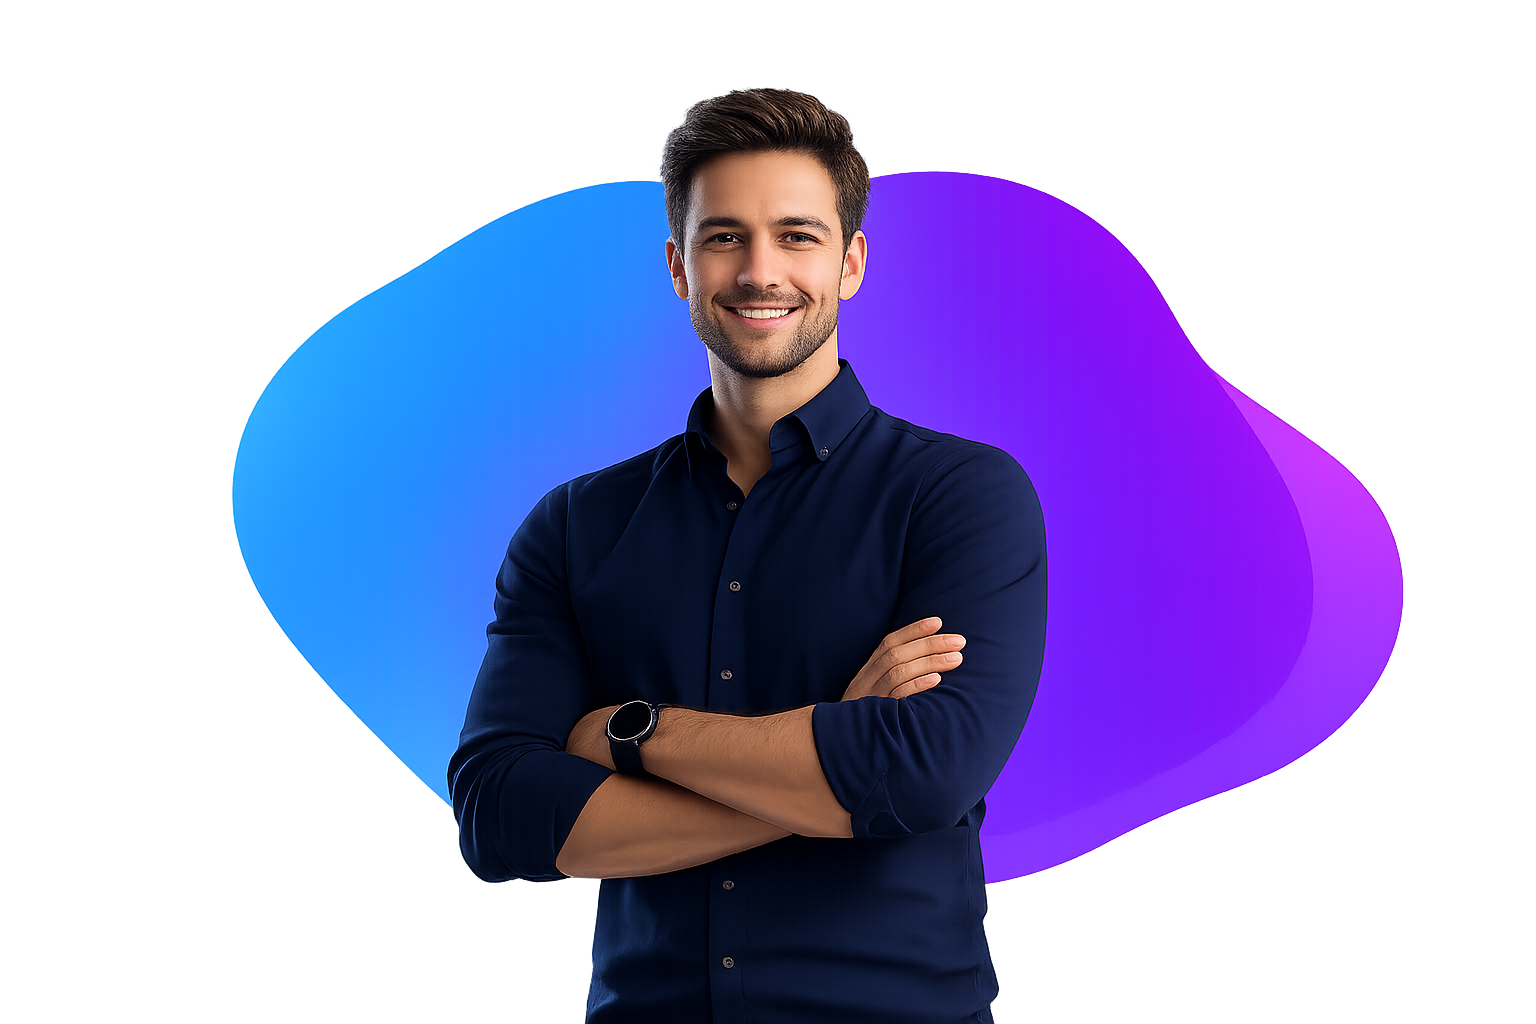
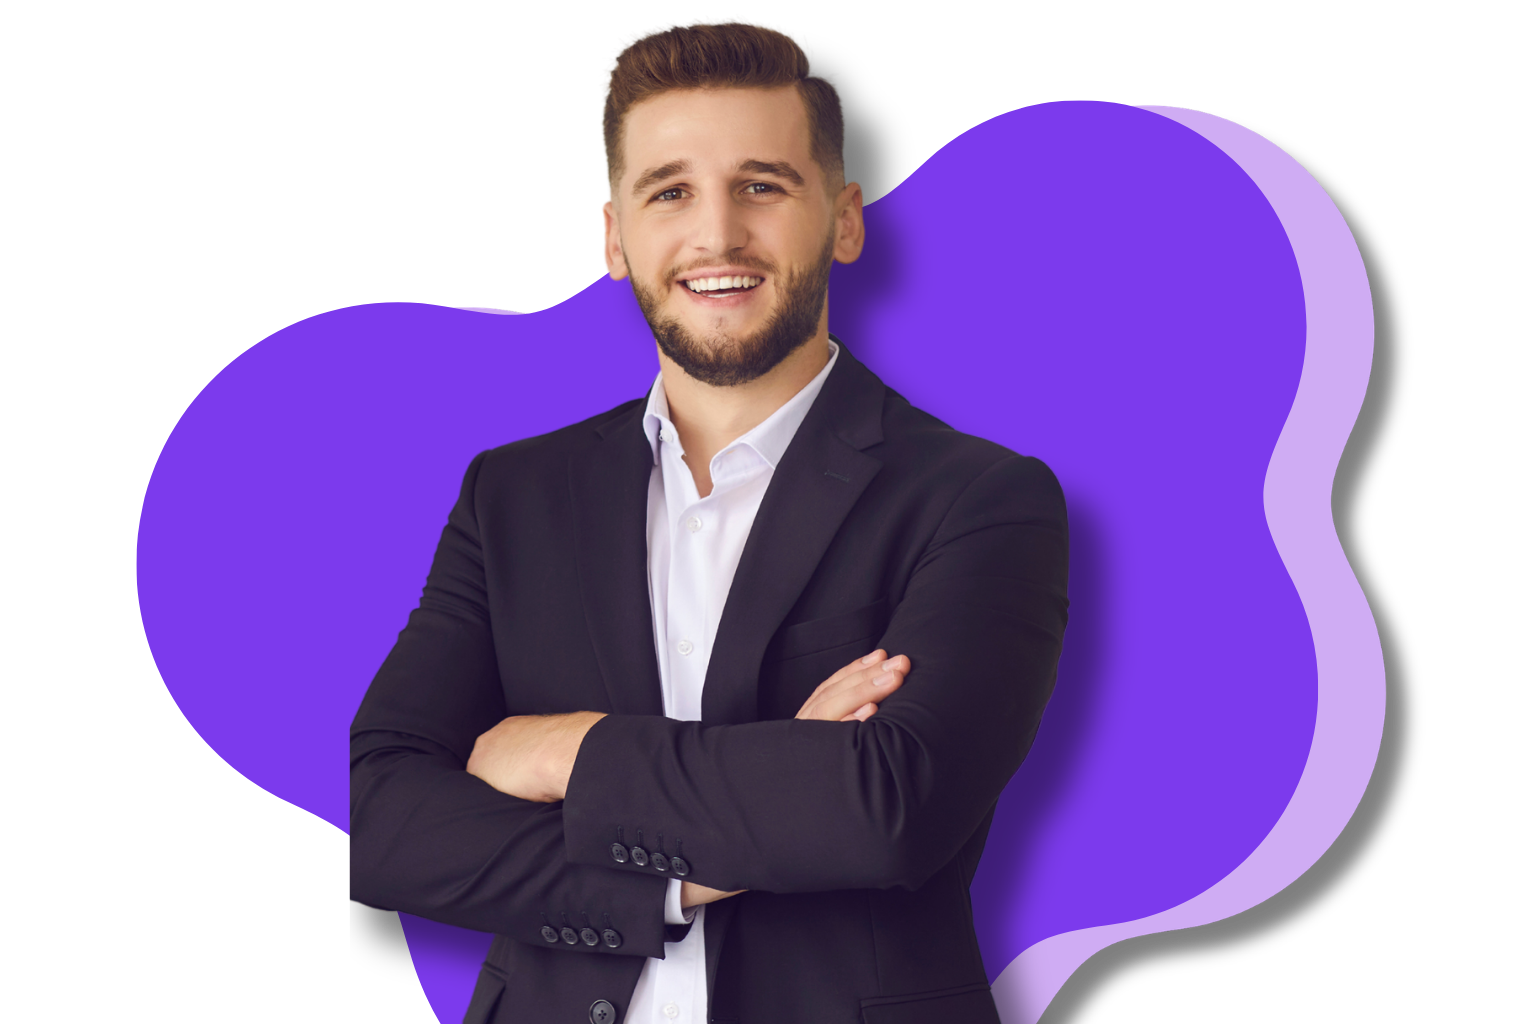
style: keep buttons side-by-side on mobile viewports with flex-1 and prevent text wrapping using whitespace-nowrap, while keeping original auto-width and padding layout on desktop

diff --git a/src/components/sections/Hero.tsx b/src/components/sections/Hero.tsx
@@ -295,17 +295,16 @@ export default function Hero() {
 
                 {/* CTAs */}
                 <motion.div
-                  className="flex flex-row flex-wrap items-center gap-3 mb-7"
+                  className="flex flex-row items-center gap-2 mb-7 w-full sm:w-auto"
                   initial={{ opacity: 0, y: 18 }}
                   animate={{ opacity: 1, y: 0 }}
                   transition={{ duration: 0.4, delay: 0.2 }}
                 >
                   <Link
                     href={slide.ctaLink}
-                    className="group inline-flex items-center gap-2 text-[13px] font-semibold text-white rounded-xl transition-all duration-300"
+                    className="group inline-flex items-center justify-center gap-1 sm:gap-2 text-[11px] sm:text-[13px] font-semibold text-white rounded-full transition-all duration-300 flex-1 sm:flex-initial px-3 sm:px-[22px] py-2.5 sm:py-[12px] shrink-0 whitespace-nowrap"
                     style={{
                       background: slide.accent,
-                      padding: "12px 22px",
                       boxShadow: `0 6px 26px ${slide.accent}50`,
                     }}
                     onMouseEnter={(e) => {
@@ -320,15 +319,15 @@ export default function Hero() {
                     }}
                   >
                     {slide.ctaText}
-                    <ArrowRight className="w-4 h-4 transition-transform duration-300 group-hover:translate-x-0.5" />
+                    <ArrowRight className="w-3.5 h-3.5 sm:w-4 sm:h-4 transition-transform duration-300 group-hover:translate-x-0.5" />
                   </Link>
                   <Link
                     href={slide.secondaryLink}
-                    className="inline-flex items-center gap-2 text-[13px] font-medium text-white/65 rounded-xl border transition-all duration-300 hover:text-white hover:bg-white/[0.07] hover:border-white/30"
-                    style={{ padding: "12px 22px", border: "1px solid rgba(255,255,255,0.13)" }}
+                    className="inline-flex items-center justify-center gap-1 sm:gap-2 text-[11px] sm:text-[13px] font-medium text-white/65 rounded-full border transition-all duration-300 hover:text-white hover:bg-white/[0.07] hover:border-white/30 flex-1 sm:flex-initial px-3 sm:px-[22px] py-2.5 sm:py-[12px] shrink-0 whitespace-nowrap"
+                    style={{ border: "1px solid rgba(255,255,255,0.13)" }}
                   >
                     {slide.secondaryText}
-                    <ArrowRight className="w-4 h-4" />
+                    <ArrowRight className="w-3.5 h-3.5 sm:w-4 sm:h-4" />
                   </Link>
                 </motion.div>
 
@@ -466,7 +465,7 @@ export default function Hero() {
       <motion.div
         className="absolute bottom-0 hidden lg:flex items-end justify-center z-[8] pointer-events-none"
         style={{
-          left: "40%",
+          left: "20%",
           right: "0px",
           paddingBottom: "40px",
         }}

diff --git a/src/components/layout/Navbar.tsx b/src/components/layout/Navbar.tsx
@@ -227,7 +227,7 @@ export default function Navbar() {
                   background: heroAccent,
                   height: "38px",
                   padding: "0 18px",
-                  borderRadius: "10px",
+                  borderRadius: "9999px",
                   transition: "background 0.5s ease, box-shadow 0.5s ease",
                   boxShadow: `0 4px 18px ${heroAccent}50`,
                 }}